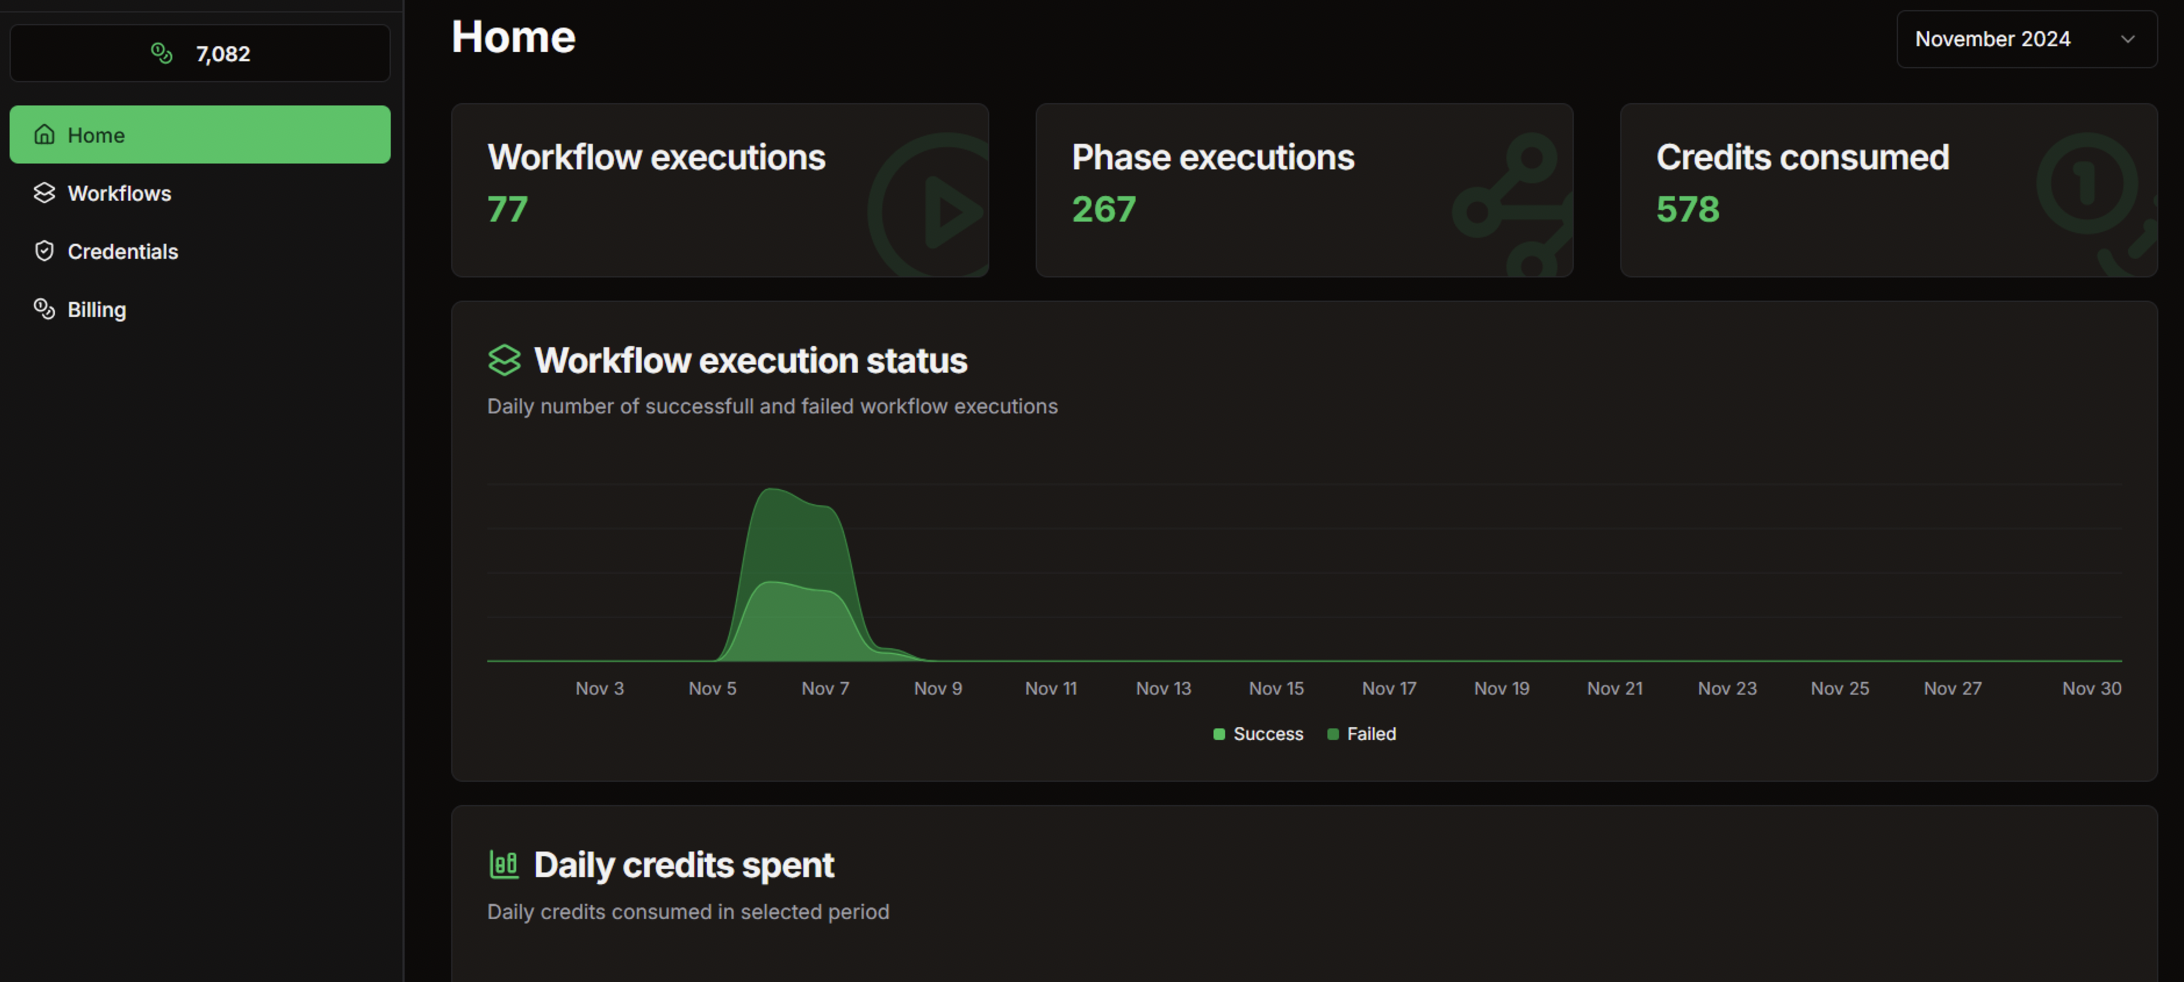
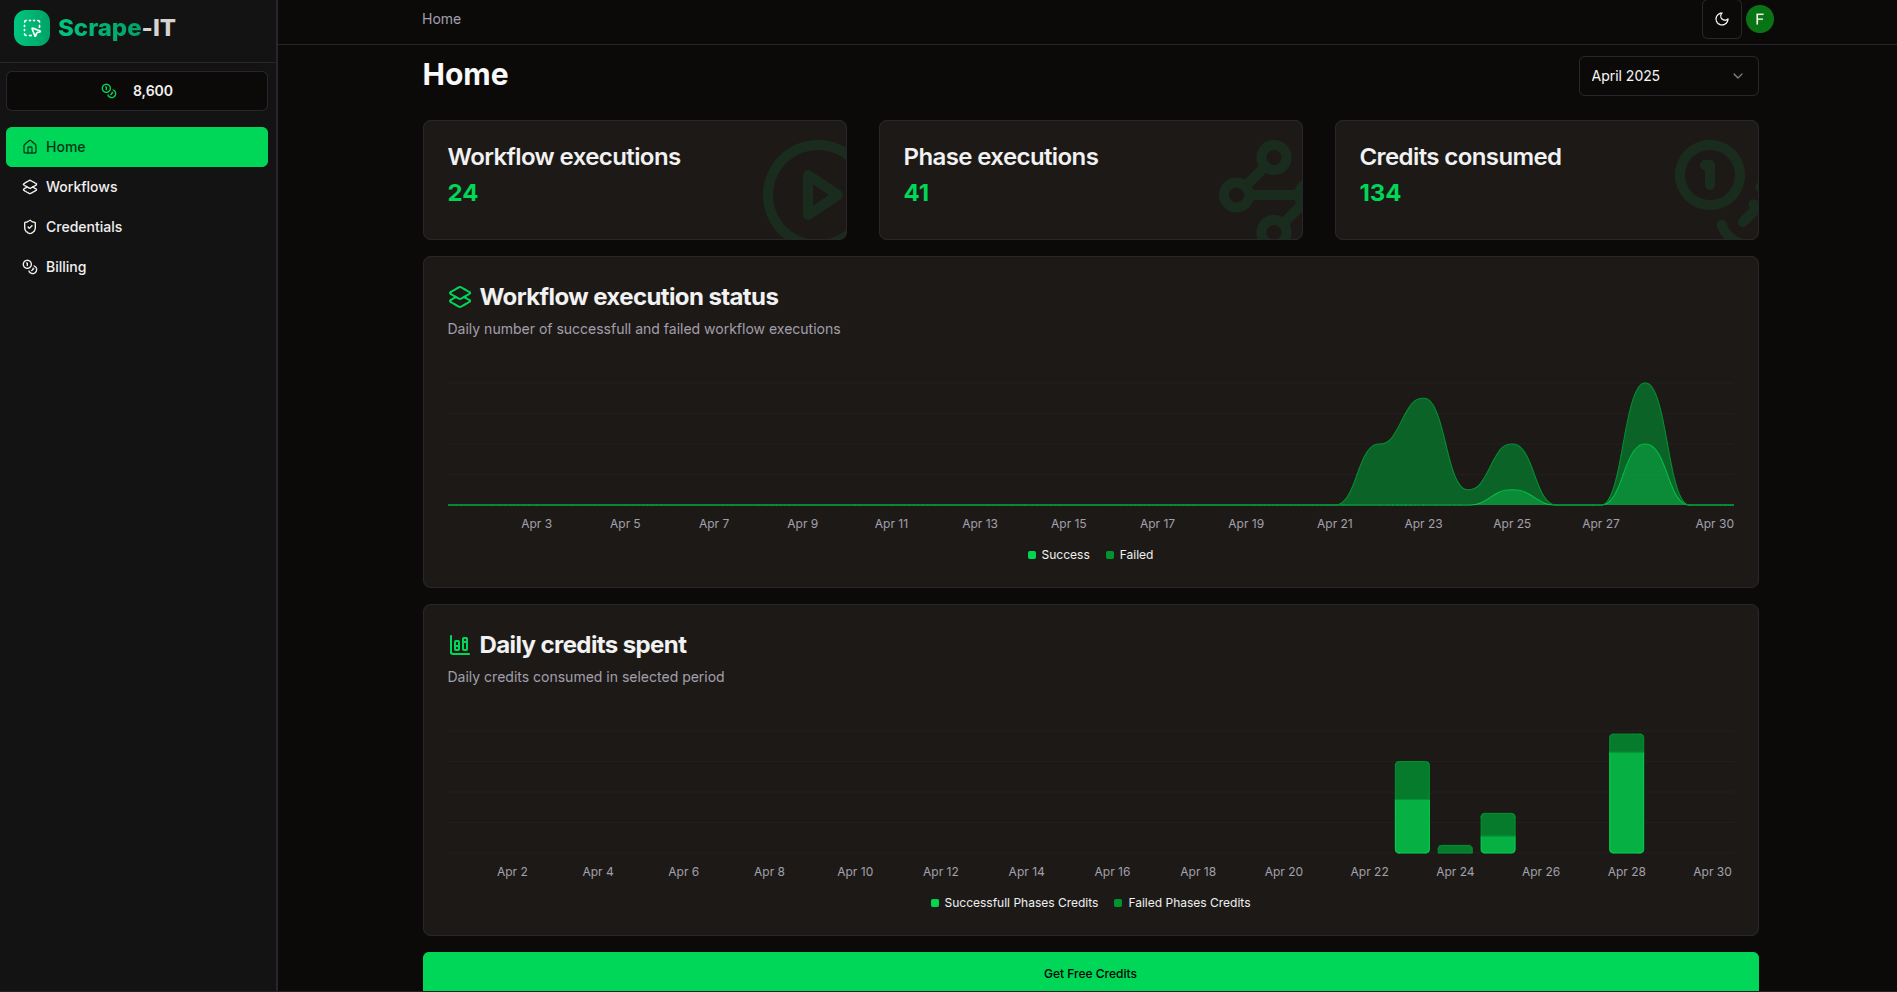
updated readme file

diff --git a/README.md b/README.md
@@ -1,52 +1,60 @@
 # Scrape-IT
 
-Scrape-IT is a powerful SaaS platform for workflow automation with integrated web scraping capabilities. Built on Next.js, FlowScrape lets users automate complex data extraction workflows, securely store credentials, manage billing, and monitor performance—all in one intuitive interface.
+**Scrape-IT** is a powerful SaaS platform for workflow automation with integrated web scraping capabilities. Built on **Next.js**, it allows users to automate complex data extraction workflows, securely store credentials, manage billing, and monitor performance—all in one intuitive interface.
 
-![FlowScrape1_screenshot](/public/preview/preview_1.png)
+![Scrape-IT Screenshot 1](/public/preview/preview.png)  
+![Scrape-IT Screenshot 2](/public/preview/preview_2.png)
 
-![FlowScrape2_screenshot](/public/preview/preview_2.png)
+---
+
+## 📑 Table of Contents
+
+- [Key Features](#-key-features)
+- [Getting Started](#-getting-started)
+- [Usage](#usage)
+- [Tech Stack](#-tech-stack)
+- [Development](#development)
+- [Roadmap](#roadmap)
+
+---
 
 ## 📋 Key Features
 
-- **Workflow Automation**: Easily build and execute multi-step workflows. Run tasks in distinct phases with assigned credits, providing granular control over your scraping executions.
+- **Workflow Automation**: Easily build and execute multi-step workflows. Run tasks in distinct phases with assigned credits for fine-grained control over scraping executions.
+- **Advanced Web Scraping Tools**: Design customized workflows with automated actions, scheduled executions, and flexible selector configuration.
+- **Credential Storage**: Securely store API keys, tokens, and other sensitive information using encrypted storage.
+- **Intuitive UI and Analytics**: Built with ShadCn for a modern UI, featuring real-time charts and reports for monitoring performance and credit usage.
+- **Secure Server-Side Handling**: Backend processing powered by Next.js server actions ensures security and reliability.
+- **AI-Powered Web Scraping (Beta)**: Use Gemini-powered AI to intelligently navigate and scrape data from complex websites (optional feature with API key).
 
-- **Advanced Web Scraping Tools**: Access a suite of scraping tools to design customized workflows tailored to different data needs, supporting automated actions and scheduled executions.
-
-- **Credential Storage**: Securely store API keys, tokens, and other sensitive information with encrypted storage, ensuring secure handling of credentials.
-
-- **Billing System with Stripe**: Effortlessly manage your billing and subscriptions with our Stripe integration, allowing for transparent usage tracking, subscription management, and billing history.
-
-- **Intuitive UI and Analytics**: Experience a clean, modern UI built with ShadCn, featuring real-time charts and reports for comprehensive monitoring of scraping performance and usage.
-
-- **Secure Server-Side Handling**: FlowScrape uses Next.js server actions for backend operations, ensuring secure processing of sensitive tasks.
-
-- **AI-Powered Web Scraping (Beta)**: Explore our beta AI-driven feature that intelligently navigates and scrapes data from complex websites.
+---
 
 ## 🚀 Getting Started
 
-1. **Sign Up**: Create an account on FlowScrape and choose a subscription plan that suits your needs. FREE 100 credits are provided for first time users.
-2. **Add Credentials**: Securely store your API keys, tokens, and other credentials for seamless workflow execution.
-3. **Build Your Workflow**: Utilize FlowScrape’s tools to design your workflow phases, and scrape the web with controlled execution.
-4. **Monitor and Analyze**: Track the performance of your workflows through real-time analytics, and manage your billing and usage directly on the dashboard.
+1. **Sign Up**: Create an account on Scrape-IT and choose a subscription plan. First-time users get **100 FREE credits**.
+2. **Claim Your Free Credits**: Instantly activate your free credits to begin executing workflows.
+3. **Add Credentials**: Securely store your API keys, tokens, or website login info.
+4. **Build Your Workflow**: Use Scrape-IT’s visual tools to create multi-step scraping workflows.
+5. **Monitor and Analyze**: View real-time analytics, manage your billing, and optimize your scraping operations from the dashboard.
+
+---
 
 ## 🛠 Tech Stack
 
-- **Frontend**: [Next.js](https://nextjs.org/), [Tailwind](https://tailwindcss.com/) and [ShadCn](https://shadcn.dev) for UI components
-- **Backend**: Secure server-side processing with [Next.js](https://nextjs.org/) server actions
-- **Billing**: [Stripe](https://stripe.com) integration for payment processing
-- **Security**: Encrypted credential storage to protect sensitive data
-- **Analytics**: Real-time data visualization and reporting
+- **Frontend**: [Next.js](https://nextjs.org/), [Tailwind CSS](https://tailwindcss.com/), [ShadCn](https://shadcn.dev)
+- **Backend**: Secure server-side processing using Next.js Server Actions
+- **Billing (Beta)**: [Stripe](https://stripe.com) integration
+- **Security**: Encrypted storage for sensitive data
+- **Analytics**: Real-time visualization and reporting tools
 
-## 📊 Usage & Billing
+---
 
-FlowScrape's credit-based system allows you to manage workflow executions efficiently. The Stripe integration provides transparent billing, letting you track usage and manage subscriptions.
-
-### Steps
+### Installation
 
 1. **Clone the repository**
    ```bash
-   git clone https://github.com/yourusername/scrapeflow.git
-   cd scrapeflow
+   git clone https://github.com/SuyashJain17/Scrape-It.git
+   cd Scrape-It
    ```
 
 2. **Install dependencies**
@@ -57,7 +65,7 @@ FlowScrape's credit-based system allows you to manage workflow executions effici
 3. **Set up environment variables**
    Create a `.env` file in the root directory and add the following:
    ```env
-   NEXT_PUBLIC_OPENAI_API_KEY=your_openai_api_key
+   GEMINI_API_KEY=your_gemini_api_key   # Optional - required for AI-powered scraping
    DATABASE_URL=postgresql://username:password@localhost:5432/yourdb
    NEXTAUTH_SECRET=your_nextauth_secret
    NEXTAUTH_URL=http://localhost:3000
@@ -81,6 +89,9 @@ FlowScrape's credit-based system allows you to manage workflow executions effici
 ### 1. **Sign Up/Log In**
    - Use NextAuth.js to sign up or log in to your account.
 
+### 2. **Claim your free credits**
+   - First-time users receive 1000 free credits to test workflow executions.
+
 ### 2. **Create a Workflow**
    - Drag and drop nodes to define scraping tasks.
    - Use AI suggestions for selector optimization.
@@ -103,9 +114,8 @@ FlowScrape's credit-based system allows you to manage workflow executions effici
 - **Build for production**: `npm run build`
 - **Run production server**: `npm start`
 
-### Linting and Formatting
+### Linting
 - **Lint code**: `npm run lint`
-- **Format code**: `npm run format`
 
 ---
 
